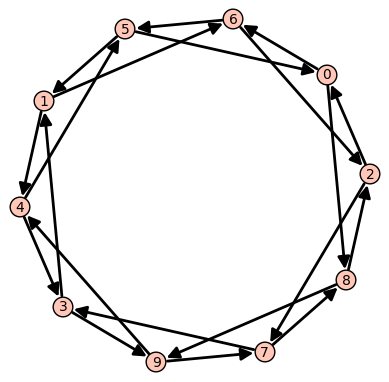
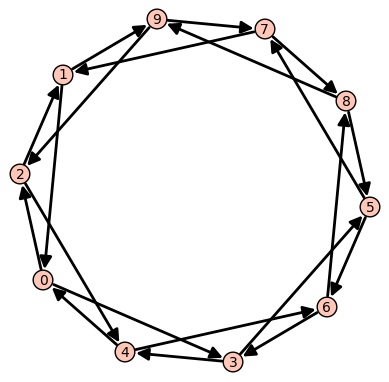
Counterexample to the scalars theorem, minor fixes.

Changed region(s): [[0.0, 0.0, 0.9871, 0.9791]]

diff --git a/appendix.tex b/appendix.tex
@@ -1,22 +1,21 @@
 \begin{chapter}{A path algebra SageMath class}
-\note{to do: encontrar un titulo real para esto}
 \label{appendix}
 We have developed a \texttt{SageMath} class to deal with the long and tedious process of checking the hypotheses of the diamond lemma, and to automatically generate bases and compute some invariants of the Jacobian algebra associated to a polygonal subdivision, with the only input being the subdivision itself. We now present the source code, which we will then discuss in more detail:
 \lstinputlisting{rewsystems.py}
 We will explain how the program works by following an example execution, in which we will compute some invariants of pyramids, as studied in \hyperref[pyramids]{Section \ref*{pyramids}}.
 
-An instance of the \texttt{Rewriting\_System} class may be constructed either from an undirected graph \textcolor{red}{reimplementarlo (o no); eso y los xrange} representing a triangulation of the sphere or from a pair of a directed graph and a list, representing a quiver and a potential respectively. In the first case, the associated QP will be automatically generated. We only implemented this feature for triangulations of the sphere since it relies on finding a planar embedding of the graph on the surface, and \texttt{SageMath} only provides such an algorithm \textcolor{red}{for the sphere}.
+An instance of the \texttt{Rewriting\_System} class is constructed from an undirected graph representing a triangulation of the sphere. The associated quiver and standard potential will be automatically generated. We only implemented this feature for triangulations of the sphere since it relies on finding a planar embedding of the graph on the surface, and \texttt{SageMath} only provides such an algorithm for this case.
 
-We would like to generate the rewriting system associated to a pyramid with an odd-sided base. In order to do that, the following snippet produces a pyramid with an $n$-sided base:
+We would like to generate the rewriting system associated to a pyramid with an odd-sided base. In order to do that, we use the following snippet, which produces a pyramid with an $n$-sided base:
 \begin{lstlisting}
 def pyramid(n):
   edges = {}
-  for i in range(1, n):
+  for i in xrange(1, n):
     edges[i] = [i+1, n+1]
   edges[n] = [1, n+1]
   return Graph(edges)
 \end{lstlisting}
-We now produce our desired triangulation:
+We now instantiate our desired triangulation:
 \begin{lstlisting}
 sage: odd_pyramid = pyramid(5)
 sage: odd_pyramid.show()
@@ -25,9 +24,9 @@ sage: odd_pyramid.show()
 \centering
 \includegraphics[width=0.5\textwidth]{odd_pyramid.png}
 \end{figure}
-Before producing the rewriting system, let us explain how the class constructor works. As mentioned above, if the parameter given to the constructor was a graph representing a triangulation, the QP will be automatically generated. If the flag \texttt{add\_zero\_rules} is marked as \texttt{False}, the \texttt{rewriting\_rules()} method will produce the set of usual rewriting rules (the ones associated to the grevlex order) and perform \hyperref[heuristic]{Heuristic \ref*{heuristic}} indefinitely until confluence is achieved. In order to test confluence, for every ambiguity we reduce both of its branches a maximum of \texttt{ambiguity\_depth} times and compare if both branches eventually resolve to the same element.
+Before producing the rewriting system, let us explain how the class constructor works. As mentioned previously, the QP will be automatically generated. If the \texttt{zero\_rules\_flag} is set to \texttt{False}, the \texttt{rewriting\_rules()} method will produce the set of usual rewriting rules (the ones associated to the grevlex order) and perform \hyperref[heuristic]{Heuristic \ref*{heuristic}} indefinitely until confluence is achieved. In order to test confluence, for every ambiguity we reduce both of its branches a maximum of \texttt{ambiguity\_depth} times and compare if both branches eventually resolve to the same element.
 
-If \texttt{add\_zero\_rules} is set to \texttt{True}, the \textcolor{red}{not the same as implemented \texttt{zero\_rules()}} method will be executed before \texttt{rewriting\_rules()}. The \texttt{zero\_rules()} method performs the following heuristic:
+If the \texttt{zero\_rules\_flag} is set to \texttt{True}, the following heuristic will be executed just after producing the first set of rewriting rules, which are the ones that arise from the Jacobian relations:
 \begin{heur} As we have seen in \hyperref[arbitrarily-long]{Observation \ref*{arbitrarily-long}},  any path that may be prolonged to a path of arbitrarily high length is zero. Reductions of the form $x\rightsquigarrow 0$ are highly desirable, since the ambiguities they generate are usually simple to resolve. Obviously, if $x=0$, then $yxz=0$ for all $y,z$, and so we are interested in finding only the shortest paths that reduce to zero. Therefore, we perform the following steps:
 \begin{enumerate}
 \item Let $n=2$.
@@ -42,9 +41,9 @@ This may be formalized by a \textcolor{red}{pumping lemma argument} if we choose
 We now generate the rewriting system associated to our pyramid:
 \begin{lstlisting}
 sage: odd_rs = Rewriting_System(odd_pyramid)
-16 rules added.
-3 rules added.
-Total rules: 39
+9 rules added.
+4 rules added.
+Total rules: 33
 \end{lstlisting}
 As we can see, the program had to enlarge the set of rules twice before achieving confluence. Let us examine the quiver and its associated potential, which both were generated automatically out of the triangulation:
 \begin{lstlisting}
@@ -56,49 +55,109 @@ sage: odd_rs.quiver.show()
 \end{figure}
 \begin{lstlisting}
 sage: odd_rs.potential
-[[3, 9, 7, 3],
- [8, 2, 7, 8],
- [0, 8, 9, 4, 5, 0],
- [4, 3, 1, 4],
- [5, 1, 6, 5],
- [2, 0, 6, 2],
- [0, 6, 5, 0],
- [0, 8, 2, 0],
- [8, 9, 7, 8],
- [9, 4, 3, 9],
- [5, 1, 4, 5],
- [6, 2, 7, 3, 1, 6]]
+[[8, 5, 6, 8],
+ [3, 4, 6, 3],
+ [0, 3, 5, 7, 1, 0],
+ [7, 8, 9, 7],
+ [1, 9, 2, 1],
+ [4, 0, 2, 4],
+ [0, 2, 1, 0],
+ [0, 3, 4, 0],
+ [3, 5, 6, 3],
+ [5, 7, 8, 5],
+ [1, 9, 7, 1],
+ [2, 4, 6, 8, 9, 2]]
 \end{lstlisting}
 As the output shows, there are five 3-cycles coming from the triangular faces, a 5-cycle from the pentagonal face, five 3-cycles from punctures where three faces meet and another 5-cycle from the puncture corresponding to the apex of the pyramid.
 
-\note{mostrar también las reglas de reescritura?}We may now compute the set of all irreducible paths up to a certain length. This is performed by just filtering the list of all paths. For instance, we may produce the list of all irreducible paths of length 4:
+The confluent rewriting system found by the software is given by this set of 33 rules:
+\begin{lstlisting}
+sage: odd_rs.rules
+{(0, 2, 1): -(0, 3, 5, 7, 1),
+ (0, 2, 4): -(0, 3, 4),
+ (1, 0, 2): -(1, 9, 2),
+ (1, 0, 3, 4): (1, 9, 2, 4),
+ (1, 0, 3, 5, 6): -(1, 9, 2, 4, 6),
+ (1, 0, 3, 5, 7, 8): (1, 9, 2, 4, 6, 8),
+ (1, 9, 2, 4, 6, 8, 9, 7): (1, 0, 3, 5, 7, 1, 0, 3, 5, 7),
+ (1, 9, 7): -(1, 0, 3, 5, 7),
+ (2, 1, 0): -(2, 4, 0),
+ (2, 1, 9): -(2, 4, 6, 8, 9),
+ (3, 4, 0): -(3, 5, 7, 1, 0),
+ (3, 4, 6): -(3, 5, 6),
+ (4, 0, 2): -(4, 6, 8, 9, 2),
+ (4, 0, 3): -(4, 6, 3),
+ (5, 6, 3): -(5, 7, 1, 0, 3),
+ (5, 6, 8): -(5, 7, 8),
+ (5, 7, 1, 0, 3, 4): -(5, 7, 8, 9, 2, 4),
+ (6, 3, 4): -(6, 8, 9, 2, 4),
+ (6, 3, 5): -(6, 8, 5),
+ (6, 8, 9, 2, 4, 0): (6, 8, 9, 7, 1, 0),
+ (7, 1, 0, 3, 5, 6): (7, 8, 9, 2, 4, 6),
+ (7, 1, 9): -(7, 8, 9),
+ (7, 8, 5): -(7, 1, 0, 3, 5),
+ (7, 8, 9, 7): (7, 1, 0, 3, 5, 7),
+ (8, 5, 6): -(8, 9, 2, 4, 6),
+ (8, 5, 7): -(8, 9, 7),
+ (8, 9, 2, 4, 6, 3): -(8, 9, 7, 1, 0, 3),
+ (9, 2, 1): -(9, 7, 1),
+ (9, 2, 4, 0): (9, 7, 1, 0),
+ (9, 2, 4, 6, 3): -(9, 7, 1, 0, 3),
+ (9, 2, 4, 6, 8, 5): (9, 7, 1, 0, 3, 5),
+ (9, 2, 4, 6, 8, 9, 7): -(9, 7, 1, 0, 3, 5, 7),
+ (9, 7, 8): -(9, 2, 4, 6, 8)}
+\end{lstlisting}
+Rules are stored as a dictionary, where keys are reducible monomials. The value associated to a key is a \texttt{Term} object, which consists of a monomial and a sign, representing the term into which the key reduces.
+
+We may now compute the set of all irreducible paths up to a certain length. This is performed by just filtering the list of all paths. For instance, we may produce the list of all irreducible paths of length 4:
 \begin{lstlisting}
 sage: odd_rs.basis(5)[-1]
-[[0, 8, 9, 4, 5],
- [0, 8, 9, 7, 3],
- [1, 6, 2, 7, 3],
- [1, 6, 5, 0, 8],
- [2, 7, 3, 1, 6],
- [2, 7, 8, 9, 4],
- [3, 1, 6, 2, 7],
- [3, 9, 4, 5, 0],
- [4, 5, 0, 8, 9],
- [4, 5, 1, 6, 2],
- [5, 0, 8, 9, 4],
- [5, 1, 6, 2, 7],
- [6, 2, 7, 3, 1],
- [6, 5, 0, 8, 9],
- [7, 3, 1, 6, 2],
- [7, 8, 9, 4, 5],
- [8, 9, 4, 5, 0],
- [8, 9, 7, 3, 1],
- [9, 4, 5, 0, 8],
- [9, 7, 3, 1, 6]]
+[[0, 3, 5, 7, 1],
+ [0, 3, 5, 7, 8],
+ [1, 0, 3, 5, 7],
+ [1, 9, 2, 4, 6],
+ [2, 4, 6, 8, 5],
+ [2, 4, 6, 8, 9],
+ [3, 5, 7, 1, 0],
+ [3, 5, 7, 8, 9],
+ [4, 6, 8, 9, 2],
+ [4, 6, 8, 9, 7],
+ [5, 7, 1, 0, 3],
+ [5, 7, 8, 9, 2],
+ [6, 8, 9, 2, 4],
+ [6, 8, 9, 7, 1],
+ [7, 1, 0, 3, 5],
+ [7, 8, 9, 2, 4],
+ [8, 9, 2, 4, 6],
+ [8, 9, 7, 1, 0],
+ [9, 2, 4, 6, 8],
+ [9, 7, 1, 0, 3]]
 \end{lstlisting}
 The name of this method is \texttt{basis()} since the set of all irreducible paths of length $n$ is actually a basis of the homogeneous component of degree $n$ of the associated graded algebra, as we discussed in \hyperref[graded-alg]{Section \ref*{graded-alg}}. We may compute its Hilbert series up to a certain degree as well:
 \begin{lstlisting}
 sage: odd_rs.hilbert_series(15)
 [10, 20, 20, 20, 20, 20, 20, 20, 20, 20, 20, 20, 20, 20, 20]
 \end{lstlisting}
-\note{incluir snippets para generar los otros poliedros}
+
+Finally, we include a snippet that generate the triangulations corresponding to prisms and antiprisms:
+
+\begin{lstlisting}
+def prism(n):
+    edges = {}
+    for i in xrange(1, n):
+        edges[i] = [i+1, i+n]
+        edges[i+n] = [i+n+1]
+    edges[n] = [1, 2*n]
+    edges[2*n] = [n+1]
+    return Graph(edges)
+
+def antiprism(n):
+    edges = {}
+    for i in xrange(1, n):
+        edges[i] = [i+1, i+n]
+        edges[i+n] = [i+n+1, i+1]
+    edges[n] = [1, 2*n]
+    edges[2*n] = [1, n+1]
+    return Graph(edges)
+\end{lstlisting}
 \end{chapter}

diff --git a/preliminaries.tex b/preliminaries.tex
@@ -186,12 +186,14 @@ In the context of Jacobian algebras, having finite dimension is a highly desirab
 \begin{section}{Ideal triangulations of surfaces}
 In this thesis we will focus primarily on a family of QPs (and their associated Jacobian algebras) arising from a particular procedure carried out on a triangulation (and more generally, on a arbitrary polygonal subdivision) of a \textcolor{red}{Riemann?} surface. In order to do this, we start with some basic definitions regarding our geometric objects.
 
-Throughout the text, we will refer to compact, connected, oriented \textcolor{red}{2-manifolds/Riemann surfaces?} with boundary simply as \emph{surfaces}. We now state a classical result in combinatorial topology that completely classifies these objects:\note{la definición de genus debería ir fuera de la prop?}
+Throughout the text, we will refer to compact, connected, oriented \textcolor{red}{2-manifolds/Riemann surfaces?} with boundary simply as \emph{surfaces}. We now state a classical result in combinatorial topology that completely classifies these objects:
 
-\begin{prop}\label{surf-classification} Let $\Sigma$ be a surface with a number $b$ of boundary components. Then $\Sigma$ is homeomorphic to either a sphere with $b$ open disks removed or to a $g$-holed torus with $b$ open disks removed. We call the number $g$ the \emph{genus} of the surface and set $g=0$ in the spherical case.
+\begin{prop}\label{surf-classification} Let $\Sigma$ be a surface with a number $b$ of boundary components. Then $\Sigma$ is homeomorphic to either a sphere with $b$ open disks removed or to a $g$-holed torus with $b$ open disks removed.
 \end{prop}
 \begin{proof} See \cite{Mas77}*{Section 10}.
 \end{proof}
+
+The number $g$ appearing in the statement of the previous theorem is called the \emph{genus} of the surface, which we will set as $g=0$ in the spherical case.
 
 A \emph{surface with marked points} $(\Sigma,M)$ is an ordered pair consisting of a surface $\Sigma$ and a finite, non-empty collection $M$ of points (called \emph{marked points}) of $\Sigma$ containing at least one point from each of its boundary components. Points in $M$ that belong to the interior of $\Sigma$ are called \emph{punctures}.
 
@@ -346,32 +348,34 @@ On the other hand, we can compute the Euler characteristic of the surface regard
 The result now follows by equating \eqref{euler-ch1} and \eqref{euler-ch2} and solving for $n$.
 \end{proof}
 
-From now on, we will assume that our surface $(\Sigma, M)$ is none of the following:
+Most surfaces may be triangulated without using self-folded triangles. In fact, we have the following result:
+
+\begin{prop}[{\cite{FST08}*{Proposition 2.13}}]\label{no-self-folds} Let $(\Sigma, M)$ be any surface with marked points different from:
 \begin{enumerate}
 \item A sphere with one, two or three punctures.
 \item An unpunctured or once-punctured monogon.
 \item An unpunctured digon.
 \item An unpunctured triangle.
 \end{enumerate}
-The reason for these exclusions is that the listed surfaces either have no non-trivial triangulations or only have pathological ones. In fact, we have the following result:
-
-\begin{prop}[{\cite{FST08}*{Proposition 2.13}}]\label{no-self-folds} Let $(\Sigma, M)$ be any surface with marked points not on the list above. Then $(\Sigma, M)$ admits an ideal triangulation involving no self-folded triangles. \hfill\qedsymbol
+Then $(\Sigma, M)$ admits an ideal triangulation involving no self-folded triangles. \hfill\qedsymbol
 \end{prop}
 \end{section}
 
 \begin{section}{The QP associated to an ideal triangulation}\label{qp}
 We will now introduce a way to produce a QP out of an ideal triangulation, so one may speak of the Jacobian algebra associated to the triangulation.
 
-Taking \hyperref[no-self-folds]{Proposition \ref*{no-self-folds}} into account, we will restrict ourselves to the case where no self-folded triangles appear. Although there is a general mechanism to produce QPs from arbitrary triangulations, as described in Section 3 from \cite{LF09}, technical difficulties arise when dealing with self-folded triangles.
+Taking \hyperref[no-self-folds]{Proposition \ref*{no-self-folds}} into account, from now on we will restrict ourselves to the case where no self-folded triangles appear. Although there is a general mechanism to produce QPs from arbitrary triangulations, as described in Section 3 from \cite{LF09}, technical difficulties arise when dealing with self-folded triangles.
 
-Let $T$ be an ideal triangulation of a surface with marked points $(\Sigma, M)$ involving no self-folded triangles. We construct a quiver $Q$ following these steps:
+Let $T$ be an ideal triangulation of a surface with marked points $(\Sigma, M)$. We construct a quiver $Q$ following these steps:
 \begin{enumerate}
 \item Draw a vertex $v_i$ for each edge $e_i$ in the triangulation $T$ that does not belong to the boundary of $\Sigma$.
 \item Draw an arrow between two vertices $v_i, v_j$ if $e_i$ and $e_j$ are edges of the same triangle.
 \item \textcolor{red}{Orient/orientate} all arrows according to the already existing orientation on the surface.
 \end{enumerate}
 
-Note that every triangle without edges on the boundary of the surface adds a 3-cycle to the quiver. We define the potential $P$ as the sum of all of these 3-cyles, plus all other cycles that circle a puncture. Notice that the potential is well defined up to cyclic equivalence. Thus, it makes sense to speak of the Jacobian algebra associated to the ideal triangulation $T$.
+Note that every triangle without edges on the boundary of the surface adds a 3-cycle to the quiver. Consider the set $X$ formed by all of these 3-cyles and all other cycles that circle a puncture, and pick a scalar $\lambda_x$ in the field $k$ for each cycle $x\in X$. We thus define the potential $P$ arising from this choice of scalars as
+\[P=\sum_{x\in X} \lambda_x x.\]
+Notice that this construction is well defined up to cyclic equivalence. Thus, it makes sense to speak of the Jacobian algebra associated from the QP one constructs from the ideal triangulation $T$. From now on, we will only consider the potential formed by setting all scalars $\lambda_x=1$, which we will call \emph{the} potential associated to $T$, unless we specify otherwise.
 
 \begin{exmp} Consider the following triangulation of the torus with a single puncture:
 \[

diff --git a/examples.tex b/examples.tex
@@ -571,7 +571,7 @@ which is of length $3n-4$, the result follows.
 \end{lemma}
 \begin{proof} We write our path as $B_{k+1}R_k\dots R_2 B_2 R_1 B_1$, where the paths $R_i$ are contained in a same region and the paths $B_j$ are non-trivial (except possibly for $B_1$ and $B_{k+1}$) and contained in bands.
 
-Let $1<j<k+1$. The path $B_j$ starts and ends at the boundary of our region of interest. Therefore, it must pass through both of the endpoints of a same arrow belonging to the cycle associated to the region, which we will call $x_0$ following the notation employed in the proof of \hyperref[long-band-paths]{Lemma \ref*{long-band-paths}}.\note{esto no está particularmente claro...} Therefore, using the relation induced by $\partial_{x_0}(P_g)$, we can replace some of the arrows in $B_j$ with a path entirely contained in the region.
+Let $1<j<k+1$. The path $B_j$ starts and ends at the boundary of our region of interest. Therefore, it must pass through both of the endpoints of a same arrow, which we will call $x_0$, belonging to the cycle associated to the region, since otherwise it would be sufficiently long as to reduce to zero, by \hyperref[long-band-paths]{Lemma \ref*{long-band-paths}}. Therefore, using the relation induced by $\partial_{x_0}(P_g)$, we can replace some of the arrows in $B_j$ with a path entirely contained in the region.
 After applying this argument repeatedly, we can then suppose our path is of the form $B_2 R_1 B_1$. The proof now follows from \hyperref[long-band-paths]{Lemmas \ref*{long-band-paths}} and \ref{long-region-paths}, since if our path is non-zero, then $|B_1|<10$, $|B_2|<10$ and $|R_1|<3n-3$, where $n$ is the number of sides of the region.
 \end{proof}
 
@@ -729,6 +729,34 @@ Total rules: 53
 \end{lstlisting}
 As we can see, these results agree with our computations.
 \end{section}
+
+\begin{section}{Scalars in the polygonal case}
+We recall that, so far, we have only considered potentials in which all scalars involved were set to 1. One of the main results from Sefi Ladkani's paper \cite{Lad12} states:
+\begin{thm} Let $(\Sigma, M)$ be a surface with marked points and empty boundary.
+\begin{enumerate}
+\item If $(\Sigma, M)$ is not a sphere with 4 punctures, then for any choice of scalars the Jacobian algebra associated to the QP arising from any ideal triangulation of $(\Sigma, M)$ is finite-dimensional.
+\item If $(\Sigma, M)$ is a sphere with 4 punctures, then the same conclusion holds provided that the product of the scalars is not equal to 1.
+\end{enumerate}
+\end{thm}
+
+The family of pyramids studied in the previous section shows that this result does not hold for polygonal subdivions in general. Keeping the notation previously used, consider the potential $P$ which arises by asigning the scalar 1 to cycles of the form $a^{n+1}$ and $bdc$, and the scalar $-1$ to cycles of the form $b^{n+1}$ and $acd$. The cyclic derivatives of this potential are then
+\begin{align*}
+\partial_a(P) &= a^{n-1} - cd\\
+\partial_b(P) &= -b^{n-1} + dc\\
+\partial_c(P) &= bd - da\\
+\partial_d(P) &= -ac + cb
+\end{align*}
+
+Therefore, the obvious rewriting system
+\begin{align*}
+cd &\leadsto a^{n-1}\tag{$\partial_a$}\\
+dc &\leadsto b^{n-1}\tag{$\partial_b$}\\
+bd &\leadsto da\tag{$\partial_c$}\\
+ac &\leadsto cb\tag{$\partial_d$}
+\end{align*}
+turns out to be confluent. In fact, exactly the same computation as in the previous section holds if we delete all the minus signs from it. Therefore, the Jacobian algebra associated to this potential is infinite-dimensional, since for instance cycles of the form $a^{kn}$ and $b^{kn}$ are irreducible for all natural $k$. Nevertheless, we have already seen that for even values of $n$, the Jacobian algebra arising from the standard potential is finite-dimensional.
+\end{section}
+
 \begin{section}{Prisms and antiprisms}
 In this section we will introduce two families of convex polyhedra, which are polygonal subdivisions of the sphere. We will then show confluent rewriting systems for their respective Jacobian algebras, so as to have more examples in which we may compute invariants in the following chapter.
 
